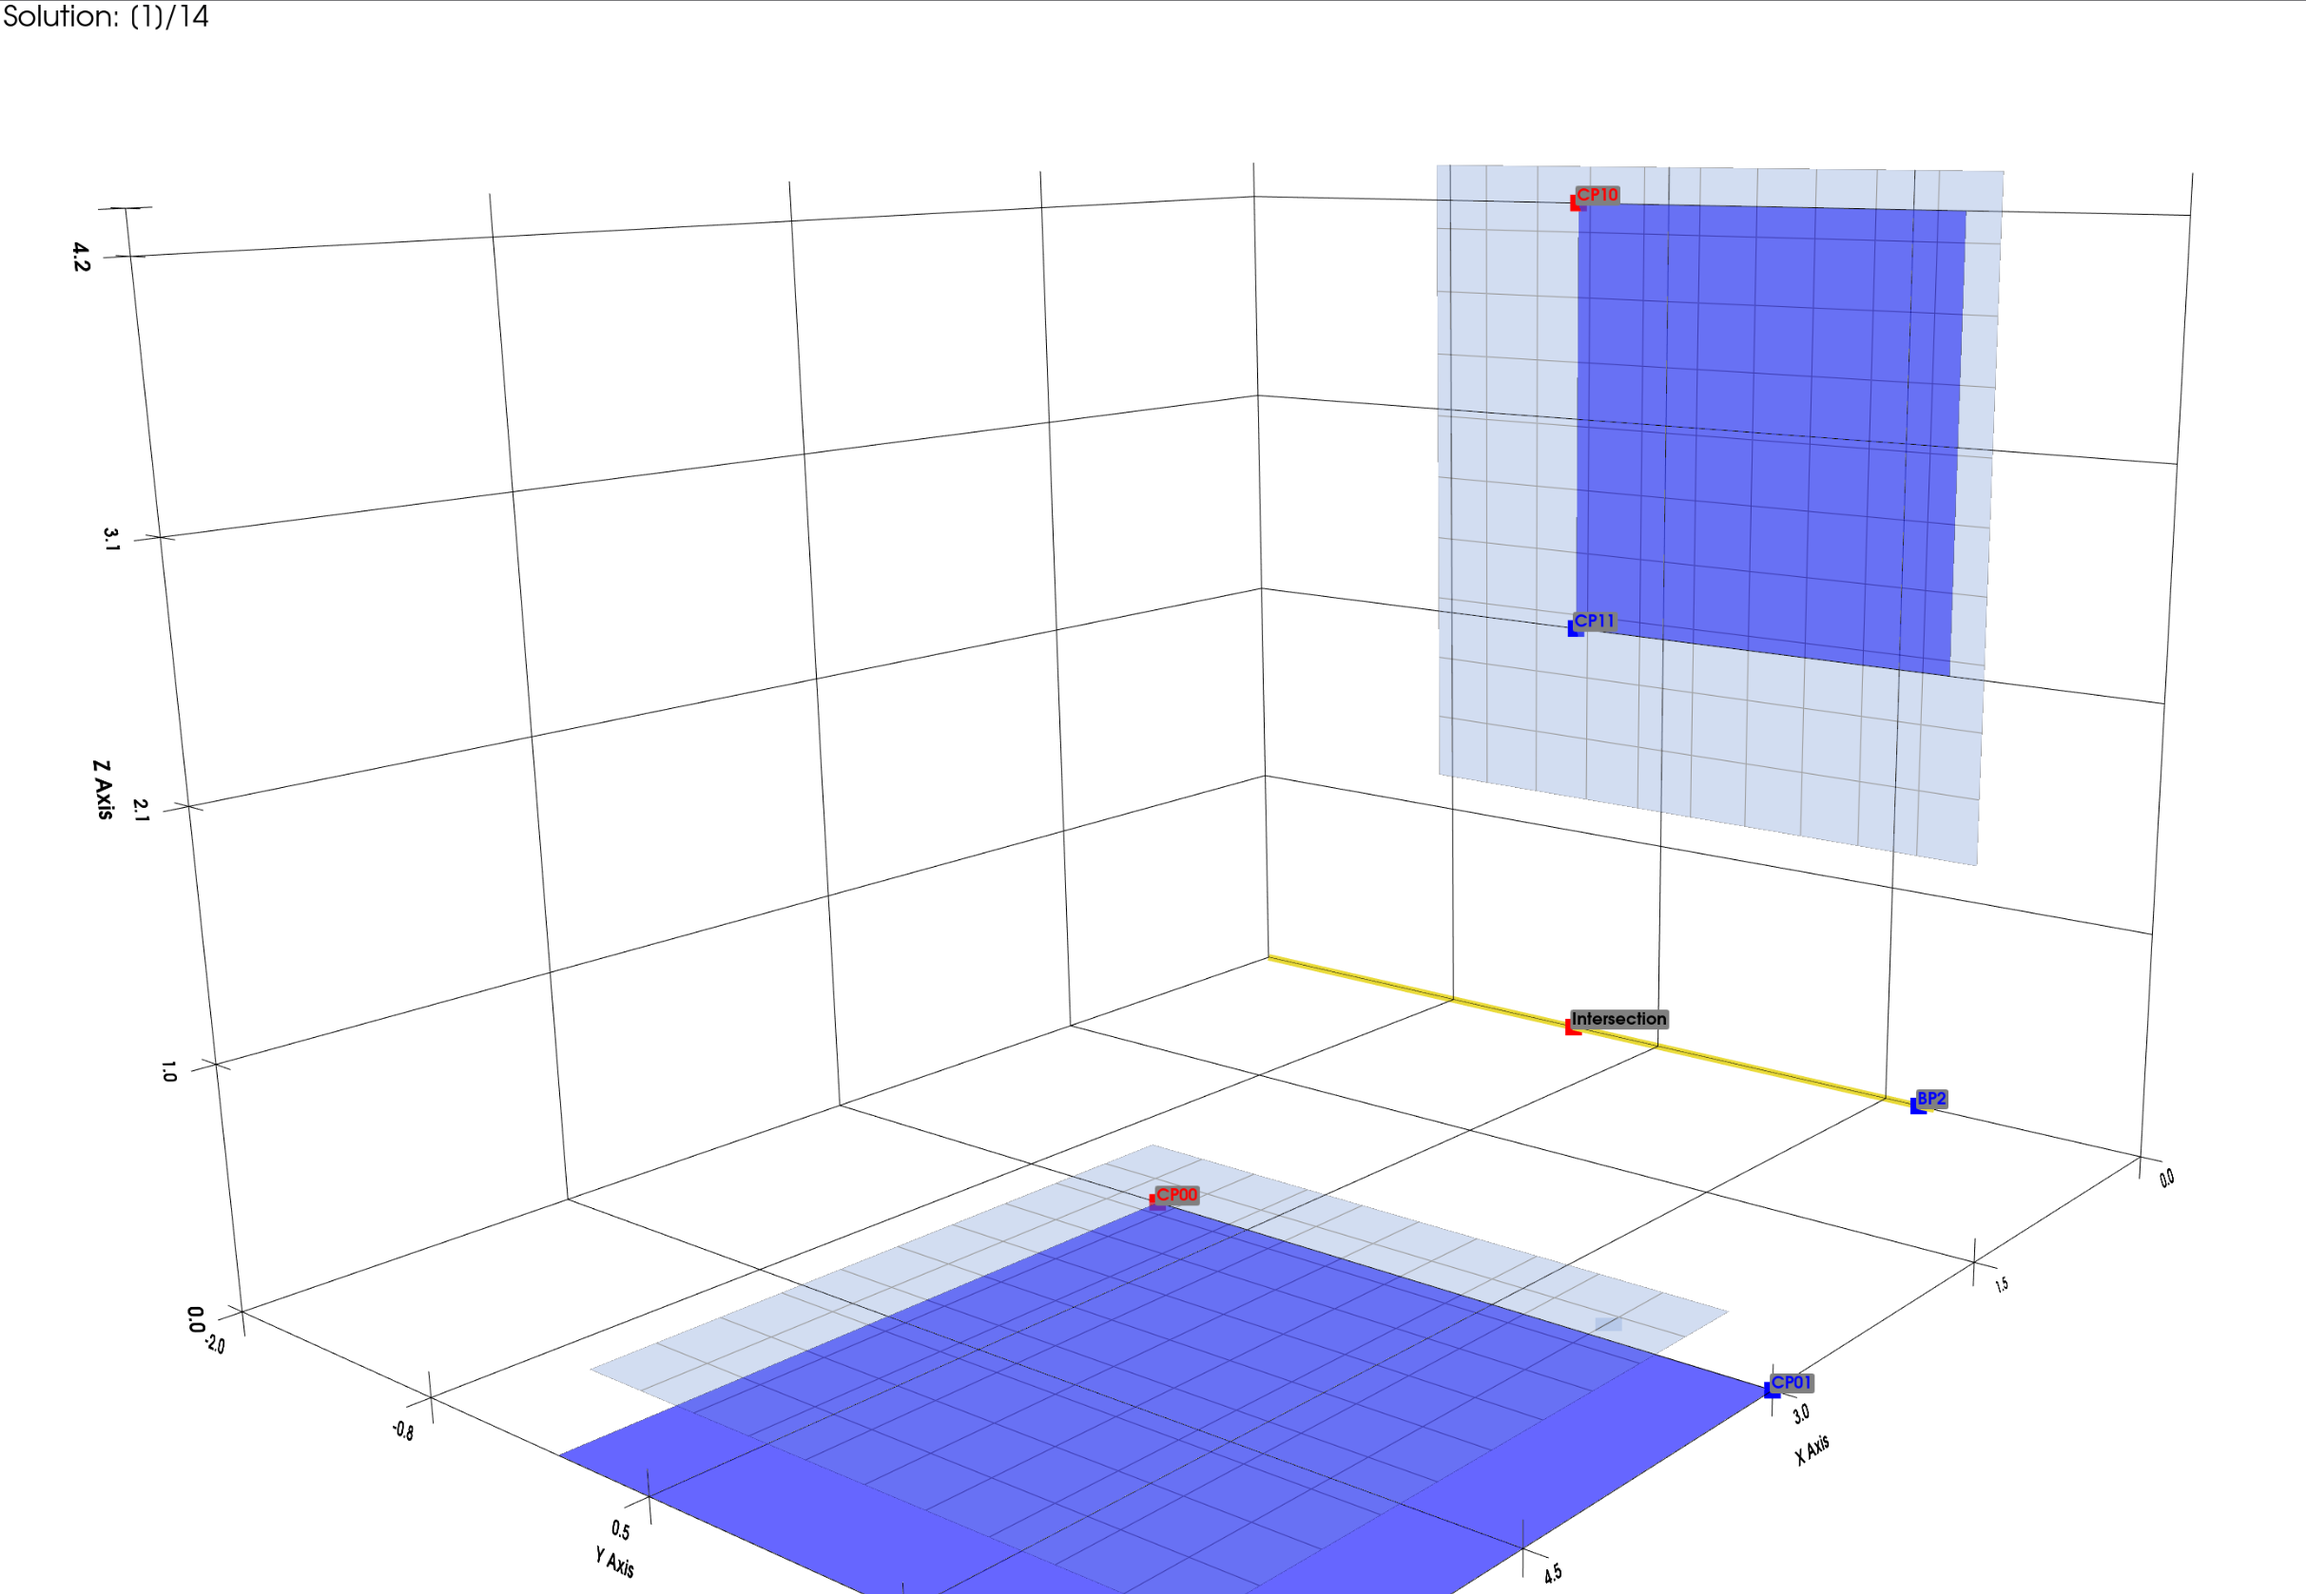
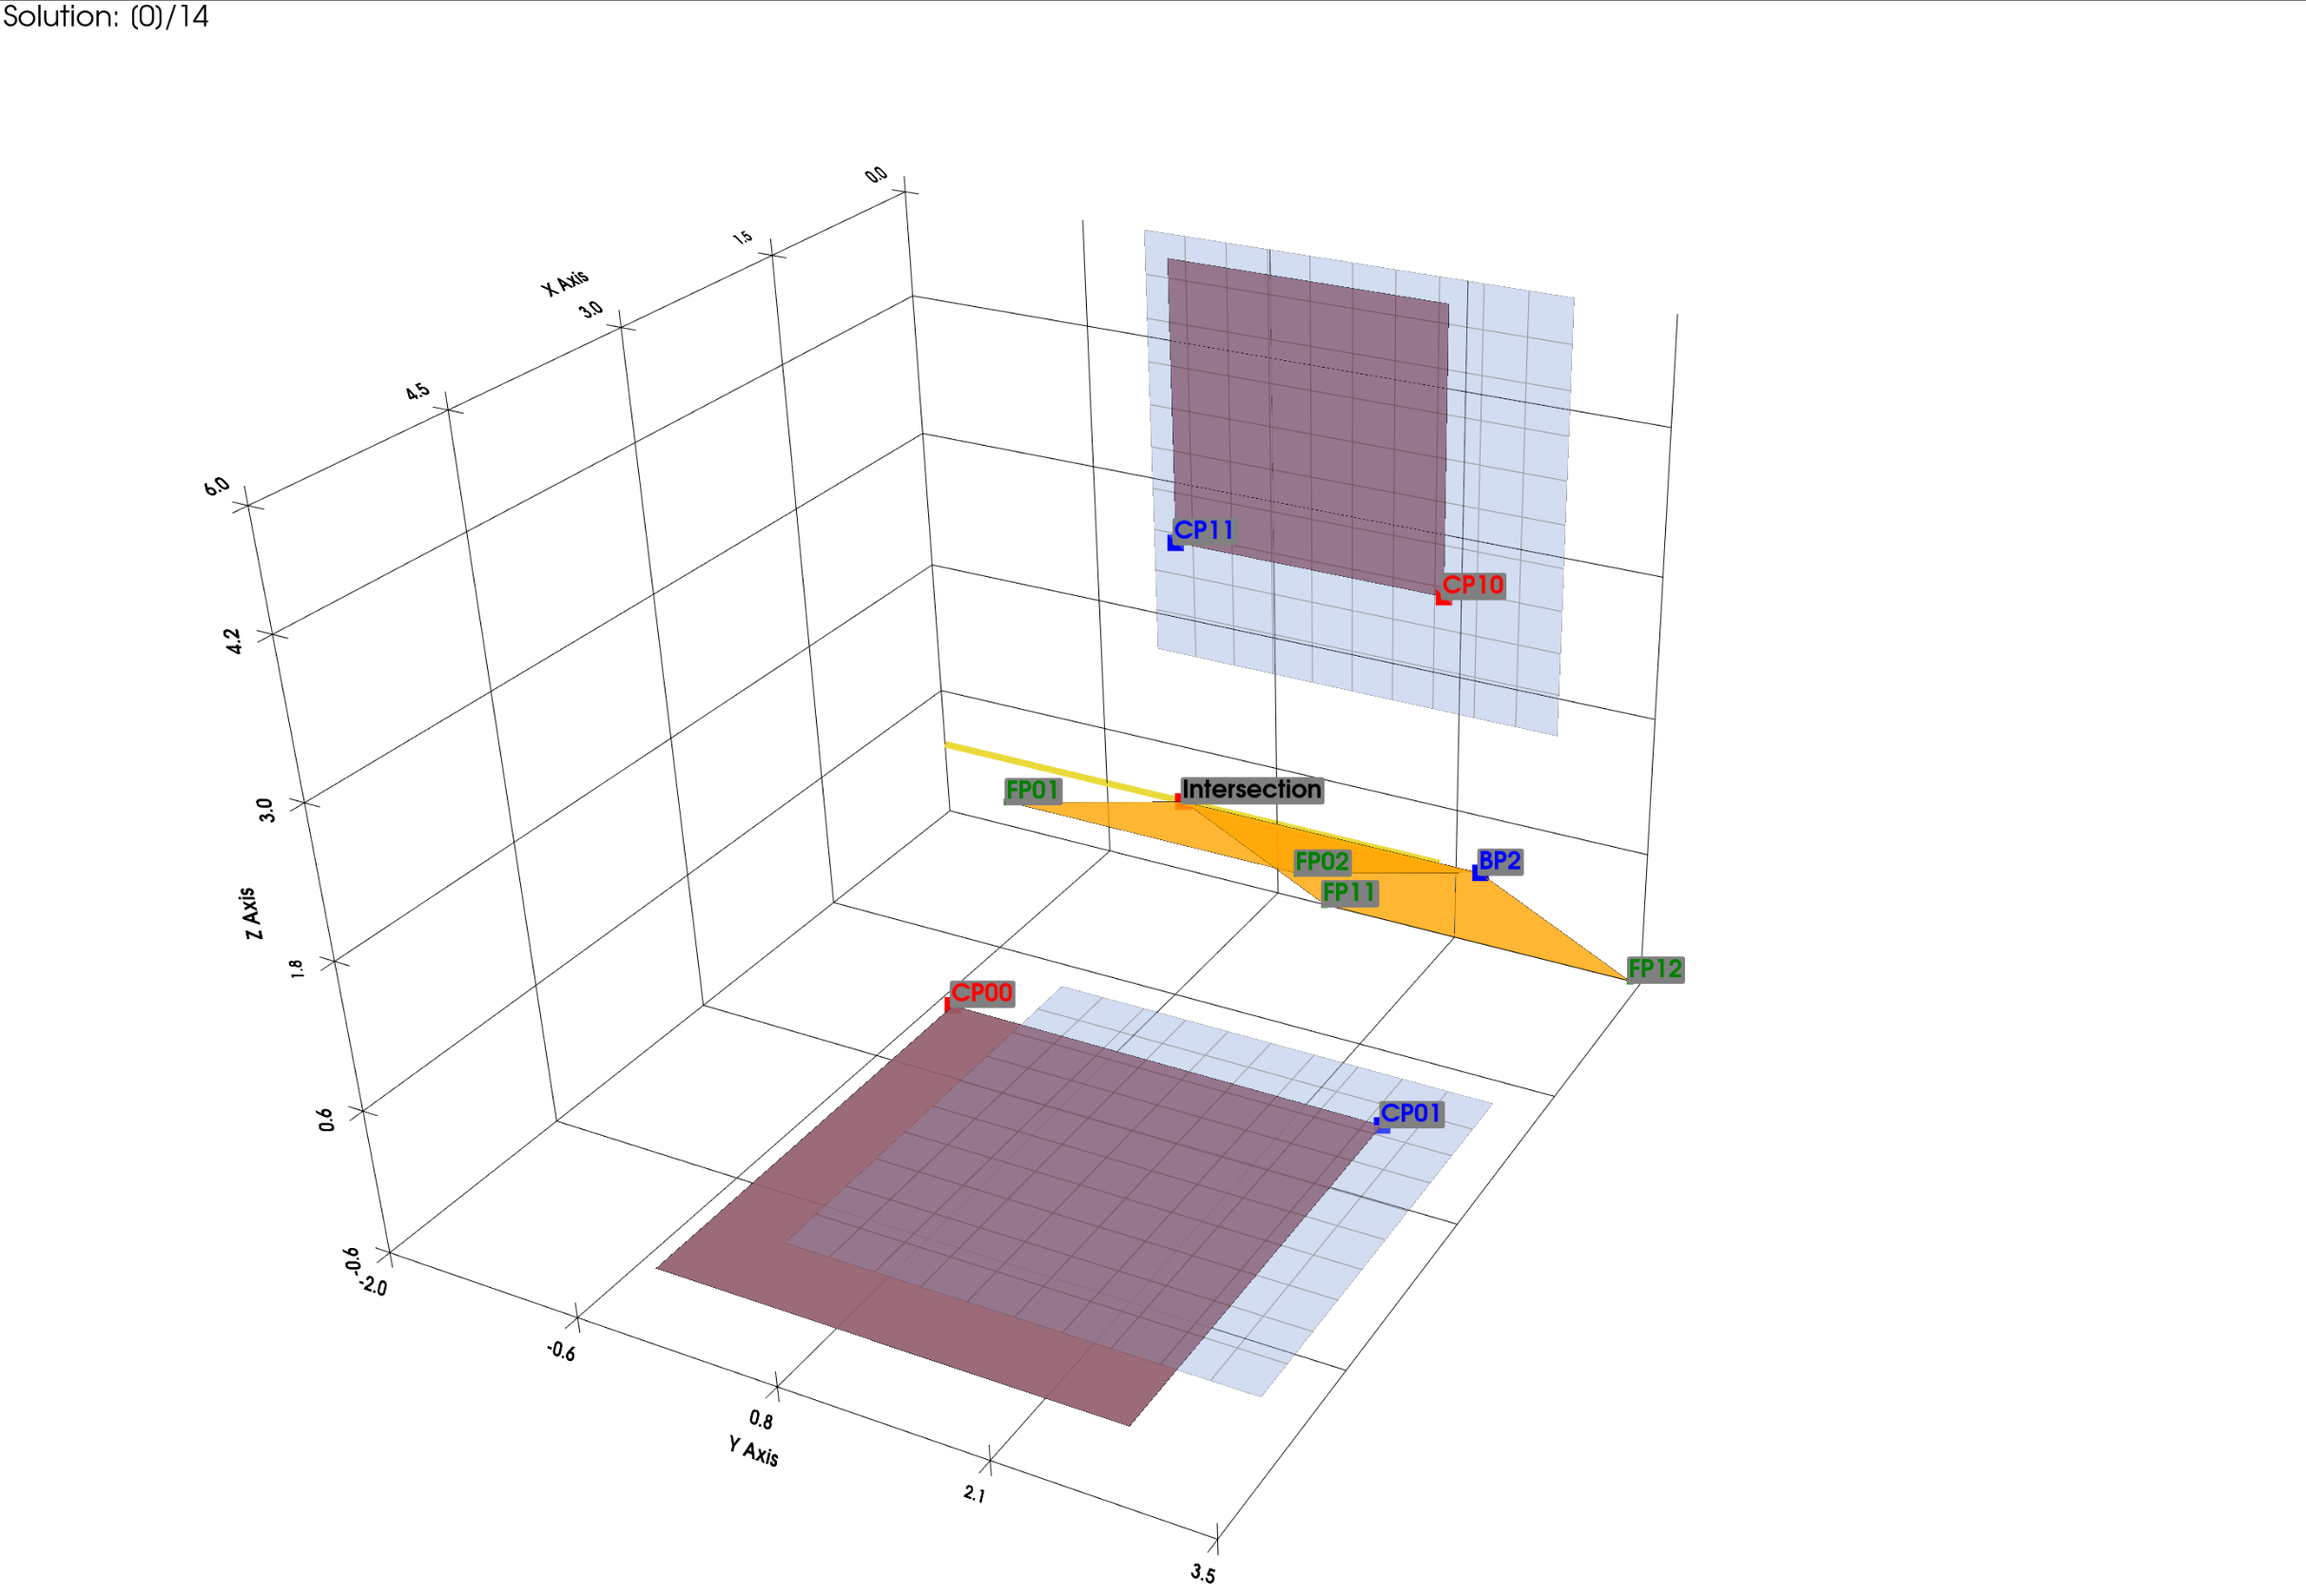
Fix element creation and update example image

diff --git a/src/gen_design_sheet_metal/design_exploration/connect_edges.py b/src/gen_design_sheet_metal/design_exploration/connect_edges.py
@@ -29,8 +29,8 @@ def one_bend(state, solutions):
             # new_state.bending_points.extend([BP1, BP2])
             new_state.bends = ({"bend_id": 0, "bend": intersection, "BP1": BP1, "BP2": BP2, 
                                     "FP01": FP01, "FP02": FP02, "FP11": FP11, "FP12": FP12})
-            new_state.elements.append(turn_points_into_element([BP1, BP2, FP01, FP02]))
-            new_state.elements.append(turn_points_into_element([BP1, BP2, FP11, FP12]))
+            new_state.elements.append(turn_points_into_element([BP1, FP01, FP02, BP2]))
+            new_state.elements.append(turn_points_into_element([BP1, FP11, FP12, BP2]))
             new_state.elements.append(turn_points_into_element(rect1_points))
 
 
